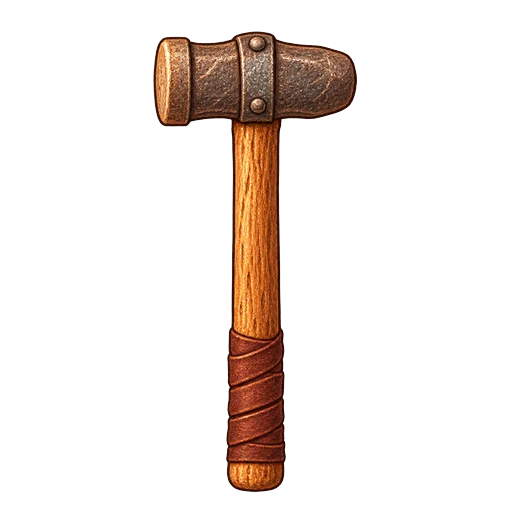
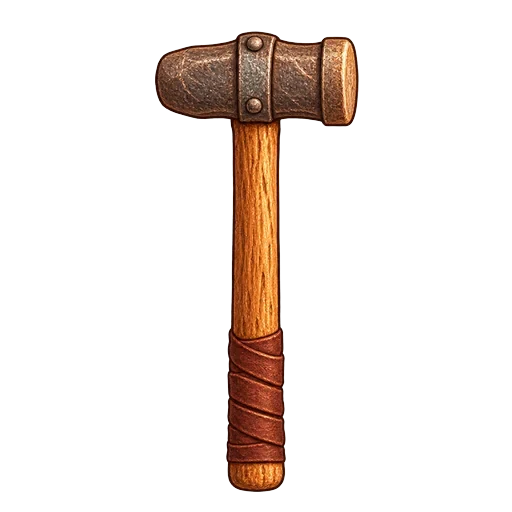
Heavy Hammer faces the right way; the pile under the tree is the toys you made; credits name Sean Dailey

Changed region(s): [[0.2812, 0.0625, 0.7188, 0.9688]]

diff --git a/game/src/bench.js b/game/src/bench.js
@@ -29,7 +29,6 @@ const files = [
   'sprites/elf-helper', 'sprites/toy-machine', 'sprites/reindeer-team',
   ...[0, 1, 2, 3].map((i) => `sprites/pip-swing/frame-${i}`),
   ...TOYS.map((t) => 'items/' + t.id), ...HAMMERS.map((h) => `items/${h.id}-hand`),
-  ...[1, 2, 3, 4, 5, 6].map((i) => `items/present-${i}`),
 ];
 function loadImg(p) {
   return new Promise((res) => { const im = new Image(); im.onload = () => { IMG[p] = im; res(); }; im.onerror = () => res(); im.src = `assets/${p}.webp`; });
@@ -115,7 +114,7 @@ function layout(toyIdx) {
   return L;
 }
 
-// ---- The present pile: 40 fixed slots, filling at 2^(n/4) presents ----
+// ---- The pile under the tree: 40 fixed spots, each showing a toy you made ----
 function pileSlots() {
   const slots = [];
   const { x0, x1, y0, y1 } = MAP.pile;
@@ -172,7 +171,7 @@ export function toyDone(count, toyIdx) {
   const now = performance.now();
   A.popAt = now; A.popCount = count;
   if (count === 1) A.spinAt = now;
-  if (A.flying.length < 3) A.flying.push({ t: now, img: 1 + Math.floor(Math.random() * 6) });
+  if (A.flying.length < 3) A.flying.push({ t: now, toy: toyIdx });
 }
 
 // ---- Star ----
@@ -254,12 +253,14 @@ function drawTreeStar(L, view, now) {
   }
 }
 
-function drawPile(L, filled, liftF) {
-  for (let i = 0; i < filled; i++) {
-    const s = L.slots[i], p = 'items/present-' + s.img, im = IMG[p];
+function drawPile(L, filled, liftF, toys = []) {
+  // Higher rows sit further back in the heap: draw them first.
+  const order = [...Array(filled).keys()].sort((a, b) => L.slots[b].r - L.slots[a].r || a - b);
+  for (const i of order) {
+    const s = L.slots[i], t = toys[i] ?? 0, p = 'items/' + TOYS[t].id, im = IMG[p];
     if (!im) continue;
-    const sz = X(s.size);
-    let x = X(s.cx) - sz / 2, y = Y(s.foot) - sz * 0.95;
+    const sz = X(s.size) * 1.3;
+    let x = X(s.cx) - sz / 2, y = Y(s.foot) - sz * 0.93;
     if (liftF != null) {
       const d = Math.max(0, Math.min(1, liftF * 1.6 - (i / 40) * 0.6));
       if (d >= 1) continue;
@@ -326,7 +327,8 @@ function drawPip(L, hammer, now) {
   if (!pv || !him || !hj) return;
   const k = b.w / 512;
   const fx = b.x + pv.fist[0] * k, fy = b.y + pv.fist[1] * k;
-  let ang = fr === 2 ? L.strikeAngle : pv.angle;
+  // The strike aims at the toy's top; the follow-through carries on just a little past it.
+  let ang = fr === 2 ? L.strikeAngle : fr === 3 ? L.strikeAngle + 8 : pv.angle;
   // The spin after a finished toy: one full turn while idle.
   const sp = (now - A.spinAt) / 380;
   if (sp >= 0 && sp < 1 && fr === 0) ang += 360 * (1 - (1 - sp) ** 2);
@@ -369,8 +371,8 @@ function drawFlying(L, now, filled) {
     const dest = L.slots[Math.min(39, Math.max(0, filled - 1))] || L.slots[0];
     const x0 = L.toyBox.cx, y0 = L.toyBox.top, x1 = X(dest.cx), y1 = Y(dest.foot) - X(dest.size) / 2;
     const x = x0 + (x1 - x0) * k, y = y0 + (y1 - y0) * k - Math.sin(k * Math.PI) * Y(16);
-    const sz = X(4.5) * (1 - 0.2 * k), im = IMG['items/present-' + f.img];
-    if (im) { g.save(); g.translate(x, y); g.rotate(k * 4); g.drawImage(im, -sz / 2, -sz / 2, sz, sz); g.restore(); }
+    const sz = X(6.5) * (1 - 0.15 * k), im = IMG['items/' + TOYS[f.toy].id];
+    if (im) { g.save(); g.translate(x, y); g.rotate(Math.sin(k * Math.PI) * 0.6); g.drawImage(im, -sz / 2, -sz / 2, sz, sz); g.restore(); }
   }
 }
 
@@ -440,7 +442,7 @@ export function draw(view) {
   drawTreeStar(L, view, now);
   drawImg('bg/bench', L.bench);
   const filled = slotsFilled(view.pile);
-  if (!eve || eve.phase !== 'lift') drawPile(L, filled, null);
+  if (!eve || eve.phase !== 'lift') drawPile(L, filled, null, view.pileToys);
   if (view.pile > 0 && filled >= 40 && !eve) tag('×' + fmtShort(view.pile), X(84), Y(81));
   drawToy(L, view.toy, now);
   drawImg('bg/stool', L.stool);
@@ -449,7 +451,7 @@ export function draw(view) {
   drawFlying(L, now, filled);
   if (view.rush) vignette(0.35 + 0.1 * Math.sin(now / 200));
   if (eve && eve.phase === 'lights') { g.fillStyle = `rgba(10,12,40,${Math.min(0.55, eve.t * 0.4)})`; g.fillRect(0, 0, W, H); drawLights(L, now, view); drawTreeStar(L, view, now); }
-  if (eve && eve.phase === 'lift') { g.fillStyle = 'rgba(10,12,40,0.55)'; g.fillRect(0, 0, W, H); drawLights(L, now, view); drawTreeStar(L, view, now); drawPile(L, filled, eve.t); }
+  if (eve && eve.phase === 'lift') { g.fillStyle = 'rgba(10,12,40,0.55)'; g.fillRect(0, 0, W, H); drawLights(L, now, view); drawTreeStar(L, view, now); drawPile(L, filled, eve.t, view.pileToys); }
   g.restore();
 }
 const fmtShort = (n) => (n >= 1e6 ? (n / 1e6).toFixed(1) + 'M' : n >= 1e4 ? Math.floor(n / 1000) + 'K' : String(n));

diff --git a/game/src/rules.js b/game/src/rules.js
@@ -62,7 +62,7 @@ export function newState() {
     cookies: 0, cheer: 0, rank: 1, toy: 0,
     progress: TOYS.map(() => 0), made: TOYS.map(() => 0),
     hammer: 0, helpers: HELPERS.map(() => 0), upgrades: {},
-    pile: 0, phoneDone: false, eveSeen: false, phoneTask: false,
+    pile: 0, pileToys: [], phoneDone: false, eveSeen: false, phoneTask: false,
     stats: { taps: 0, toys: 0, stars: 0, played: 0, cookies: 0 },
     settings: { music: true, sfx: true, muted: false },
     leftAt: 0, started: false, firstElf: false, tab: 'toys',
@@ -147,6 +147,7 @@ export function addWork(s, tap, crew, opts = {}) {
     if (opts.cheerCap != null) ch = Math.max(0, Math.min(ch, opts.cheerCap - s.cheer));
     s.cookies += ck; s.cheer += ch; s.made[i] += made;
     s.stats.toys += made; s.stats.cookies += ck; s.pile += made;
+    fillPile(s, i);
     res.cookies = ck; res.cheer = ch;
     if (firstPhoneNow) s.phoneTask = false;
   }
@@ -176,6 +177,51 @@ export function away(s, seconds) {
   const before = { cookies: s.cookies, made: s.made[s.toy] };
   const r = addWork(s, 0, crewWps(s) * eff, { away: true, cheerCap: next2 });
   return { seconds, effective: eff, long, toy: s.toy, made: s.made[s.toy] - before.made, cookies: s.cookies - before.cookies, promotions: r.promotions };
+}
+
+/** The pile under the tree: 40 drawn spots, spot n filling at 2^(n/4) toys made. */
+export const PILE_SLOTS = 40;
+export const pileSpots = (pile) => { let n = 0; while (n < PILE_SLOTS && pile >= 2 ** ((n + 1) / 4)) n++; return n; };
+/** How many spots each kind of toy should have: shares by the cheer it has earned, at least one each. */
+function pileTargets(s, n) {
+  const w = TOYS.map((t, i) => s.made[i] * t.cheer), total = w.reduce((a, b) => a + b, 0) || 1;
+  return w.map((x, i) => (s.made[i] > 0 ? Math.max(1, (x / total) * n) : 0));
+}
+/**
+ * The pile under the tree shows the toys you made. A new spot shows the toy that filled it;
+ * after that, a toy that has less than its share can take over one spot from the toy with the most
+ * over its share, so newer toys show up and every kind you've made keeps a place.
+ */
+export function fillPile(s, toy) {
+  const n = pileSpots(s.pile);
+  while (s.pileToys.length < n) s.pileToys.push(toy);
+  if (n < 4) return;
+  const tgt = pileTargets(s, n), cur = TOYS.map(() => 0);
+  for (const t of s.pileToys) cur[t]++;
+  if (cur[toy] + 0.5 > tgt[toy]) return;
+  let worst = -1, over = 0.5;
+  for (let k = 0; k < TOYS.length; k++) if (k !== toy && cur[k] - tgt[k] > over && cur[k] > 1) { over = cur[k] - tgt[k]; worst = k; }
+  if (worst < 0) return;
+  const spots = []; s.pileToys.forEach((t, i) => t === worst && spots.push(i));
+  s.pileToys[spots[(s.stats.toys * 7) % spots.length]] = toy;
+}
+/** For a save from before toys were remembered: share the spots out, mixed through the heap. */
+export function derivePile(s) {
+  const n = pileSpots(s.pile);
+  if (s.pileToys.length >= n) { s.pileToys.length = n; return; }
+  const tgt = pileTargets(s, n), counts = tgt.map((x) => Math.floor(x));
+  let left = n - counts.reduce((a, b) => a + b, 0);
+  const frac = tgt.map((x, i) => [x - Math.floor(x), i]).sort((a, b) => b[0] - a[0]);
+  for (let k = 0; left > 0 && k < frac.length; k++) if (tgt[frac[k][1]] > 0) { counts[frac[k][1]]++; left--; }
+  while (left > 0) { counts[0]++; left--; }
+  while (counts.reduce((a, b) => a + b, 0) > n) counts[counts.indexOf(Math.max(...counts))]--;
+  const list = []; counts.forEach((c, i) => { for (let k = 0; k < c; k++) list.push(i); });
+  const out = Array(n);
+  const gcd = (a, b) => (b ? gcd(b, a % b) : a);
+  const step = [17, 13, 11, 7, 5, 3, 1].find((x) => gcd(x, n) === 1);
+  list.forEach((t, k) => { out[(k * step) % n] = t; });
+  for (let k = 0; k < n; k++) if (out[k] == null) out[k] = list[k % list.length] ?? 0;
+  s.pileToys = out;
 }
 
 /** Cheer-bar fraction toward the next rank (1 at the top). */
@@ -223,5 +269,7 @@ export function migrate(raw) {
   s.stats = { ...newState().stats, ...(raw.stats || {}) };
   s.settings = { ...newState().settings, ...(raw.settings || {}) };
   s.pile = num(s.pile);
+  s.pileToys = Array.isArray(raw.pileToys) ? raw.pileToys.filter((t) => Number.isInteger(t) && t >= 0 && t < TOYS.length).slice(0, PILE_SLOTS) : [];
+  derivePile(s);
   return s;
 }

diff --git a/game/src/main.js b/game/src/main.js
@@ -432,7 +432,7 @@ function showEveCard() {
   $('card-body').innerHTML = `<h2 id="card-title">Merry Christmas, Chief Toy Officer!</h2>
     <p>The sleigh is loaded and on its way. Every toy you built is going to a home tonight.</p>
     <dl class="stats">${statsHTML()}</dl>
-    <p class="credit-line">Made by Rich Conlan, from the 2017 Xmas Clicker and Sean's elf prototype. Made with gamegen.</p>`;
+    <p class="credit-line">Made by Rich Conlan, from the 2017 Xmas Clicker and Sean Dailey's elf prototype. Made with gamegen.</p>`;
   $('card').classList.add('eve-card');
   $('card-btn').textContent = 'Keep building';
   $('card-layer').hidden = false;
@@ -446,6 +446,7 @@ function endEve() {
   $('game').classList.remove('eve-on');
   $('card').classList.remove('eve-card');
   S.pile = 0;
+  S.pileToys = [];
   S.eveSeen = true;
   refreshAll();
 }
@@ -644,7 +645,7 @@ function frame(now) {
     const et = eve ? (now - eve.start) / 1000 : 0;
     const lit = eve?.phase === 'lights' ? Math.max(0, Math.floor((et - 0.6) / 0.5) + 1) : S.eveSeen || eve ? 99 : 0;
     Bench.draw({
-      toy: S.toy, hammer: S.hammer, helpers: S.helpers, pile: S.pile,
+      toy: S.toy, hammer: S.hammer, helpers: S.helpers, pile: S.pile, pileToys: S.pileToys,
       strands: S.eveSeen || eve ? 9 : S.rank - 1, lightsLit: lit,
       starLit: S.eveSeen || (eve && (eve.phase !== 'lights' || et > 5.1)),
       star: star ? star.t / R.STAR_DRIFT : null, rush: rushLeft > 0,
@@ -713,7 +714,7 @@ window.__game = {
     cookies: Math.floor(S.cookies), cheer: Math.floor(S.cheer), toy: S.toy, toyName: TOYS[S.toy].name,
     progress: Math.floor(S.progress[S.toy]), made: S.made.slice(), helpers: S.helpers.slice(), hammer: S.hammer,
     upgrades: Object.keys(S.upgrades), rush: Math.round(rushLeft * 10) / 10, star: star ? Math.round(star.t * 10) / 10 : null,
-    taps: S.stats.taps, paused, card: card?.type || null, queued: cards.length, pile: S.pile, phoneDone: S.phoneDone,
+    taps: S.stats.taps, paused, card: card?.type || null, queued: cards.length, pile: S.pile, pileToys: S.pileToys.length, phoneDone: S.phoneDone,
     levelComplete: S.rank > levelStart || (levelStart >= 10 && eveStarted), gameWon: S.eveSeen,
   }),
   frames: () => frameLog,

diff --git a/game/index.html b/game/index.html
@@ -141,7 +141,7 @@
     <p class="keys-note" id="keys-note">Space or Enter: hammer · 1–0: pick a toy · P: pause · M: mute</p>
     <div class="credits" id="credits" hidden>
       <h2>Credits</h2>
-      <p><b>Chief Toy Officer</b>: made by Rich Conlan, from the 2017 Xmas Clicker and Sean's elf prototype.</p>
+      <p><b>Chief Toy Officer</b>: made by Rich Conlan, from the 2017 Xmas Clicker and Sean Dailey's elf prototype.</p>
       <p>Made with gamegen: art by imagegen2, nanogen and anim8gen; music and sounds by audiogen.</p>
       <p>Fonts: Mountains of Christmas by Tart Workshop (Apache License 2.0) and Nunito by Vernon Adams and others (SIL Open Font License). Licenses are in the fonts folder.</p>
       <button class="btn-quiet" id="btn-credits-close">Close</button>

diff --git a/design/GAME_DESIGN.md b/design/GAME_DESIGN.md
@@ -25,7 +25,7 @@ Officer and you build the last toy before the sleigh leaves on Christmas Eve.
   - The new name is **Chief Toy Officer**. The game never calls itself a remake of Xmas Clicker (changed on request, 2026-11-24); the credits still name the 2017 original.
   - Three names change for originality: **Thunder Mallet** (was Thor's Hammer), **Pixel Play** console (was Super Game System), **Doodle Dial** (was Sketch An Etch).
   - The original's toy "value" becomes **cookies**, the money you spend.
-  - Sean's prototype supplies the helpers: elves, elf hammers, and click upgrades (the hammers).
+  - Sean Dailey's prototype supplies the helpers: elves, elf hammers, and click upgrades (the hammers).
   - All art is new. The ctrl-click cheat is gone.
 
 ## The player's fantasy
@@ -335,7 +335,7 @@ work past 90% isn't used. Later Smartphones work like any toy.
      moon.
   4. `eve-card`: "Merry Christmas, Chief Toy Officer!", your stats, the
      credits, and a "Keep building" button.
-- **Credits:** made by Rich Conlan, from Xmas Clicker (2017) and Sean's
+- **Credits:** made by Rich Conlan, from Xmas Clicker (2017) and Sean Dailey's
   elves; made with gamegen; the fonts and their licenses.
 
 ## Juice
@@ -352,14 +352,14 @@ Must-haves:
 - On every finished toy:
   - it pops up with a bounce, and Pip's hammer spins once (as in the
     original)
-  - it wraps into a present: a quick flash of paper
-  - the present arcs into the pile under the tree
+  - a quick flash of light
+  - the toy itself arcs into the pile under the tree (changed on request: the pile shows the toys you made, not wrapped presents)
   - cookies tick up, with a sound
 - **Many toys at once:** when one update finishes more than one toy, it
-  shows one pop with "×75", one present arc and one set of sounds; no
-  hammer spin. At most 3 presents are in the air at once.
-- **The pile:** at most 40 presents are drawn, in fixed slots under the
-  tree. Slot n (1–40) fills when the pile reaches 2^(n/4) presents, so it
+  shows one pop with "×75", one toy arc and one set of sounds; no
+  hammer spin. At most 3 toys are in the air at once.
+- **The pile:** at most 40 toys are drawn, in fixed slots under the
+  tree. Each slot shows the toy whose finishing filled it (saved as `pileToys`; older saves fill it in from the toy counts), so the pile is a record of what you built. Slot n (1–40) fills when the pile reaches 2^(n/4) presents, so it
   grows fast at first and is nearly full (about 39 slots, ~990 presents)
   at Chief Toy Officer. Past 40 slots a "×N" tag shows the count. After
   Christmas Eve the pile starts again from empty.

diff --git a/design/STATUS.md b/design/STATUS.md
@@ -7,6 +7,7 @@
 3. Plans page: `Yes.`
 4. `/gamegen:gamegen --continue --out xmas-clicker --budget 30 --art-sheet --publish --no-confirm`
 5. `/gamegen:gamegen --change --out xmas-clicker Chief Toy Officer game shouldn't say "A remake of Xmas clicker" anywhere.`
+6. `/gamegen:gamegen --out xmas-clicker --change The heavy hammer looks backwards. It'd be nice if the things I made actually piled up under the tree maybe? The credits should day "Sean Dailey's" instead of just "Sean's"  --publish --no-confirm`
 - Later request (exactly as typed): `When this lands, we should apply /gamegen:gamegen --feedback to both xmas-clicker and xmas-everywhere and /gamegen:gamegen --saves to xmas-everywhere`
 
 ## Settings
@@ -43,3 +44,4 @@
 - [x] Publish: live at https://chieftoyofficer.synapticnoise.com/ (HTTPS on), repo zeveck/xmas-clicker (public, one fresh commit; the planning history stays local on local-history because an old note held a temp path), DNS added at GoDaddy, top of the synapticnoise.com gallery, plans card Published
 - Art sheet: https://synapticnoise.com/plans/chief-toy-officer/art/
 - [x] Change 5: "a remake of Xmas Clicker" removed from the title screen, the page description, the README and the design (credits still name the 2017 original). Checked: title screen scanned and Start pressed at 6 sizes. Published 2026-11-24 (`/gamegen:gamegen --out xmas-clicker --publish --no-confirm`); gallery card, plans card and design page no longer say it either.
+- [x] Change 6: Heavy Hammer mirrored (flat face now strikes; follow-through now follows the strike angle for every hammer); the pile under the tree shows the toys you made (spots shared by cheer earned, newest toys take over, every kind keeps one; old saves filled in from toy counts); credits say "Sean Dailey's". Checked: strike and follow-through frames, the heap at ranks 2/4/7/8/10 on desktop and phone, a toy in flight, the Christmas Eve lift, an old save loading, credits scanned; rank 1 and the finale replayed with real input; balance checks pass.

diff --git a/README.md b/README.md
@@ -45,7 +45,7 @@ Chief Toy Officer was made by [Claude Code](https://claude.com/claude-code) with
 
 gamegen studied the 2017 original, kept its toys, its ten rank titles and its
 zero-padded counters, finished what it was reaching for (hammers you can buy,
-toys that earn something, Sean's elves, a tree and a present pile that fill
+toys that earn something, Sean Dailey's elves, a tree and a pile of toys that fill
 up), and wrote a plan, which was shared on the plans page and approved. Then,
 to build it:
 
@@ -78,5 +78,5 @@ then open http://localhost:8000.
 
 ## Credits
 
-- An idea by Rich Conlan, from the 2017 Xmas Clicker and Sean's elf prototype.
+- An idea by Rich Conlan, from the 2017 Xmas Clicker and Sean Dailey's elf prototype.
 - Fonts: [Mountains of Christmas](https://fonts.google.com/specimen/Mountains+of+Christmas) by Tart Workshop (Apache License 2.0) and [Nunito](https://fonts.google.com/specimen/Nunito) by Vernon Adams and others (SIL Open Font License 1.1). Their licenses are in `game/fonts/`.

diff --git a/design/ASSETS.md b/design/ASSETS.md
@@ -40,3 +40,5 @@ Running total: about $0.76 of $20 (mockups: $0.76 of $5).
 | sfx (17) + Santa voice | game/assets/audio/sfx/*.mp3 | audiogen sfx / voice | 21 | $2.30 |
 
 Build run total: about $7.0. With the shared design's pictures ($0.76): **about $7.8 of $30.**
+
+Change 6 (2026-11-24): hammer-2 (both files) mirrored in Pillow so its flat face leads; no new spending. The six present pictures are no longer drawn in the game (the pile shows the toys themselves) but stay on the art sheet.
